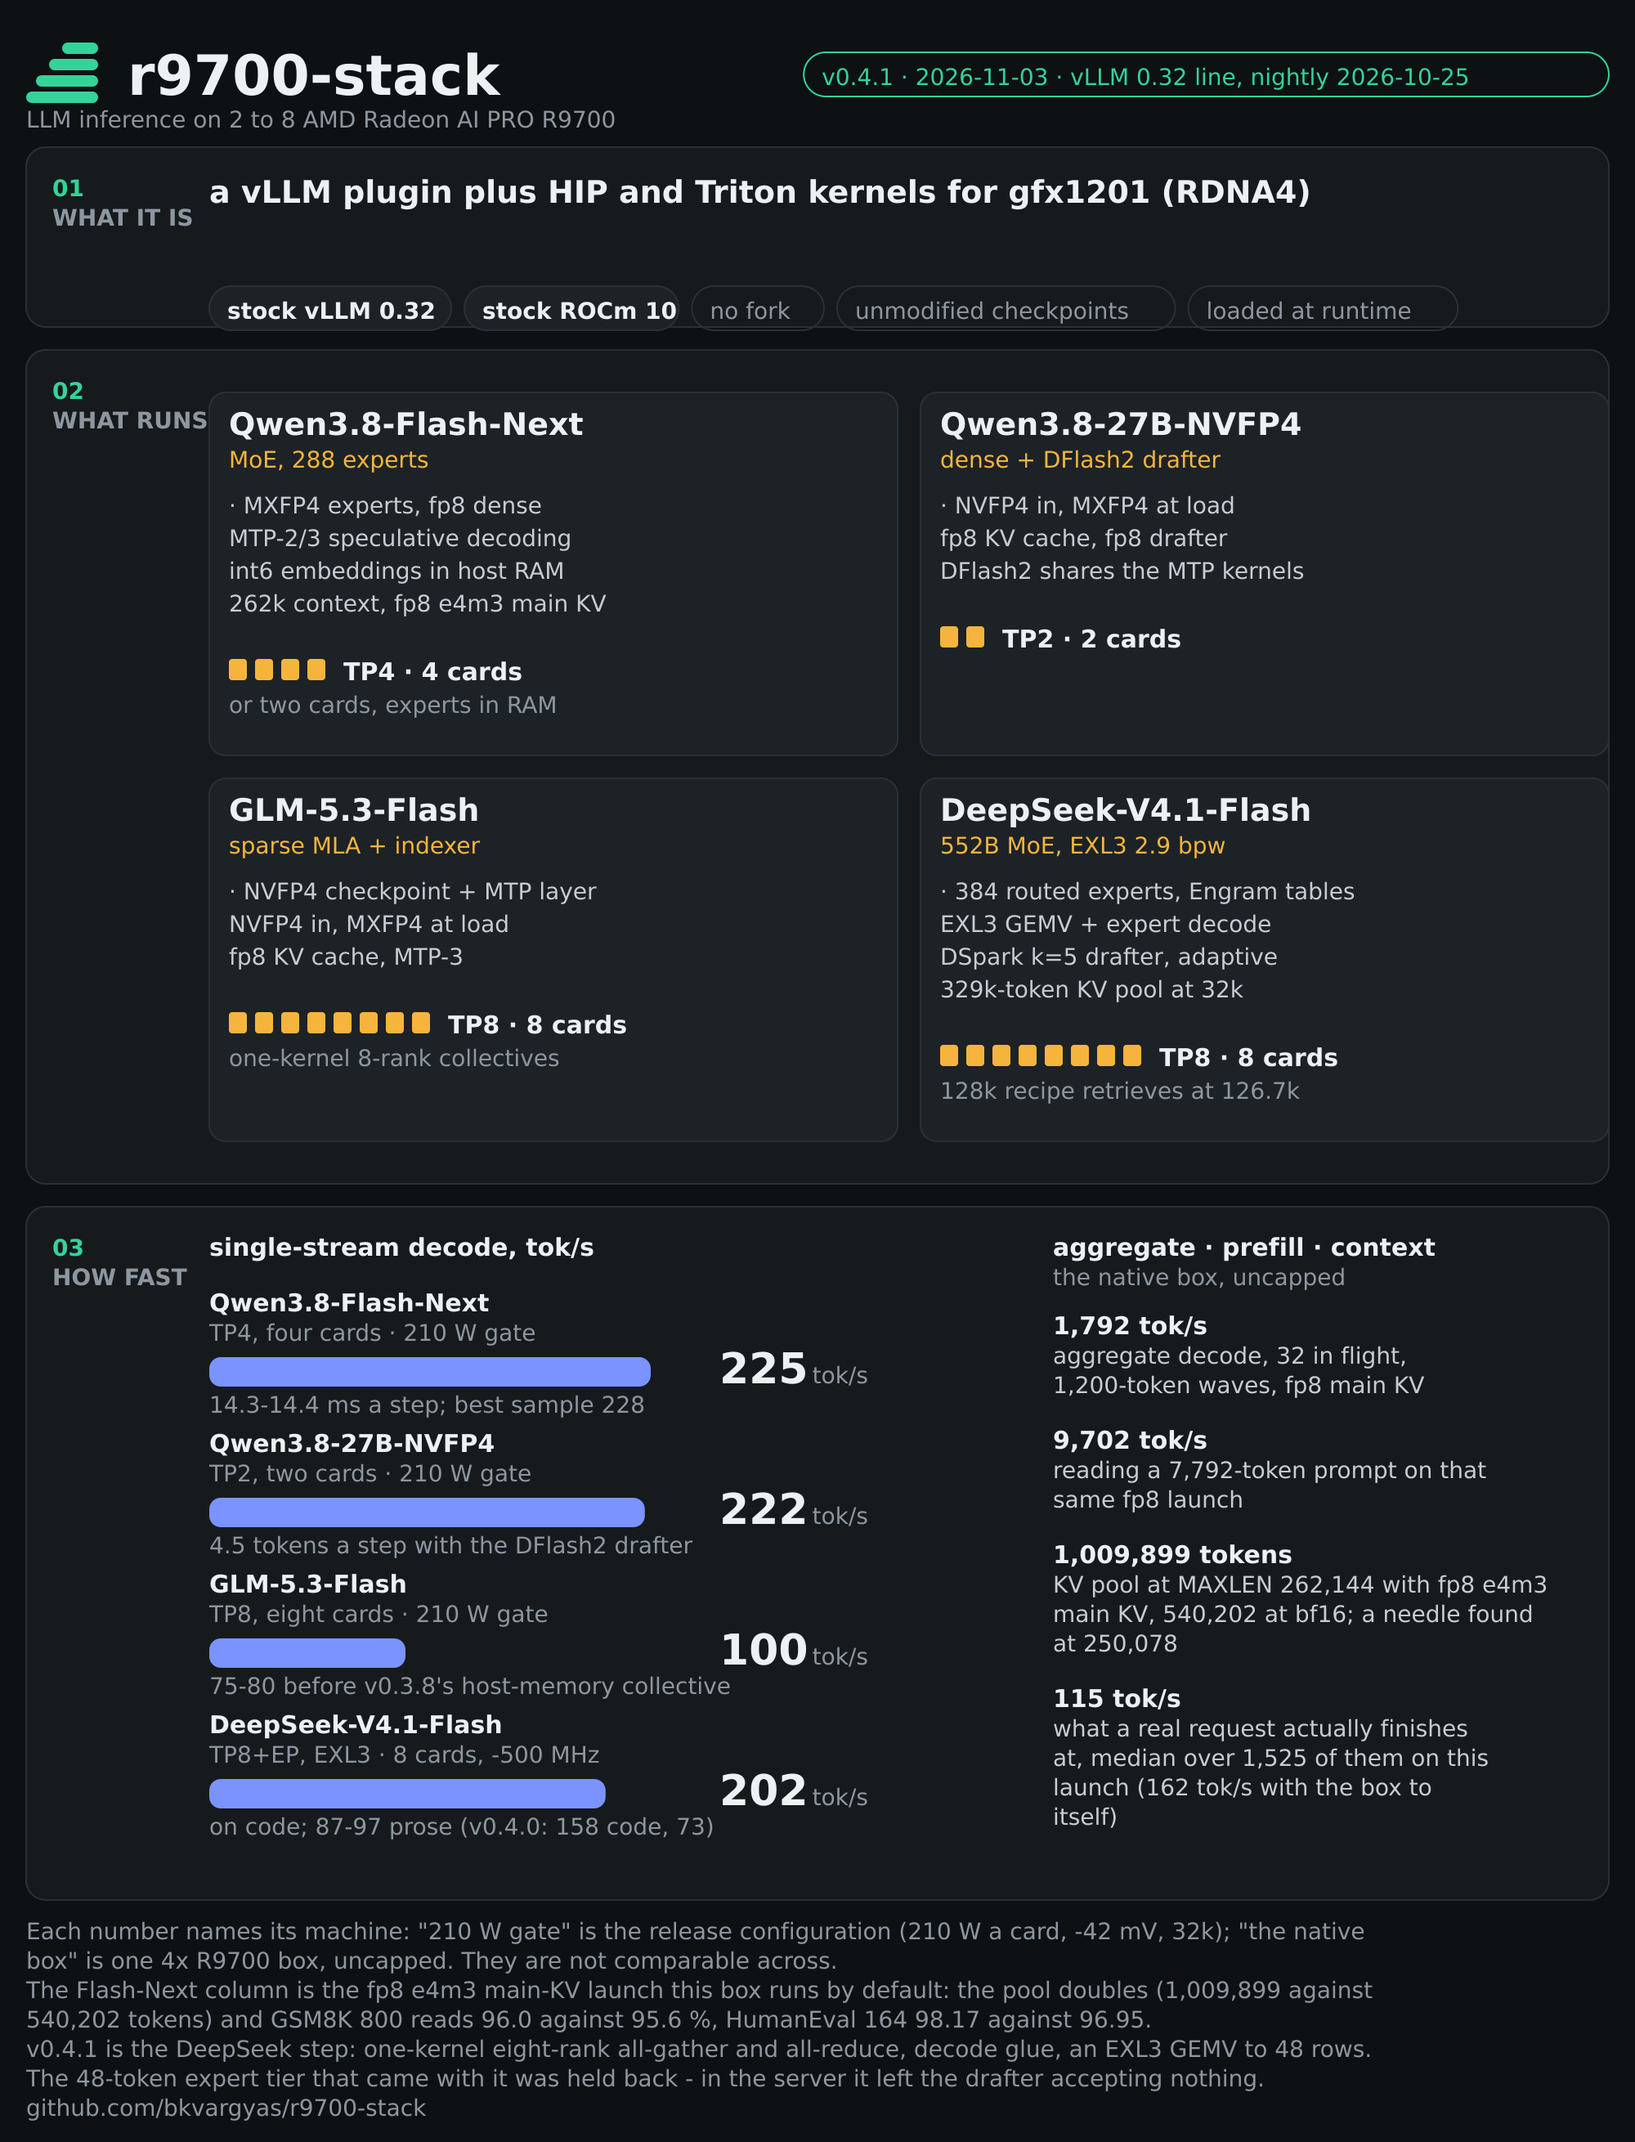
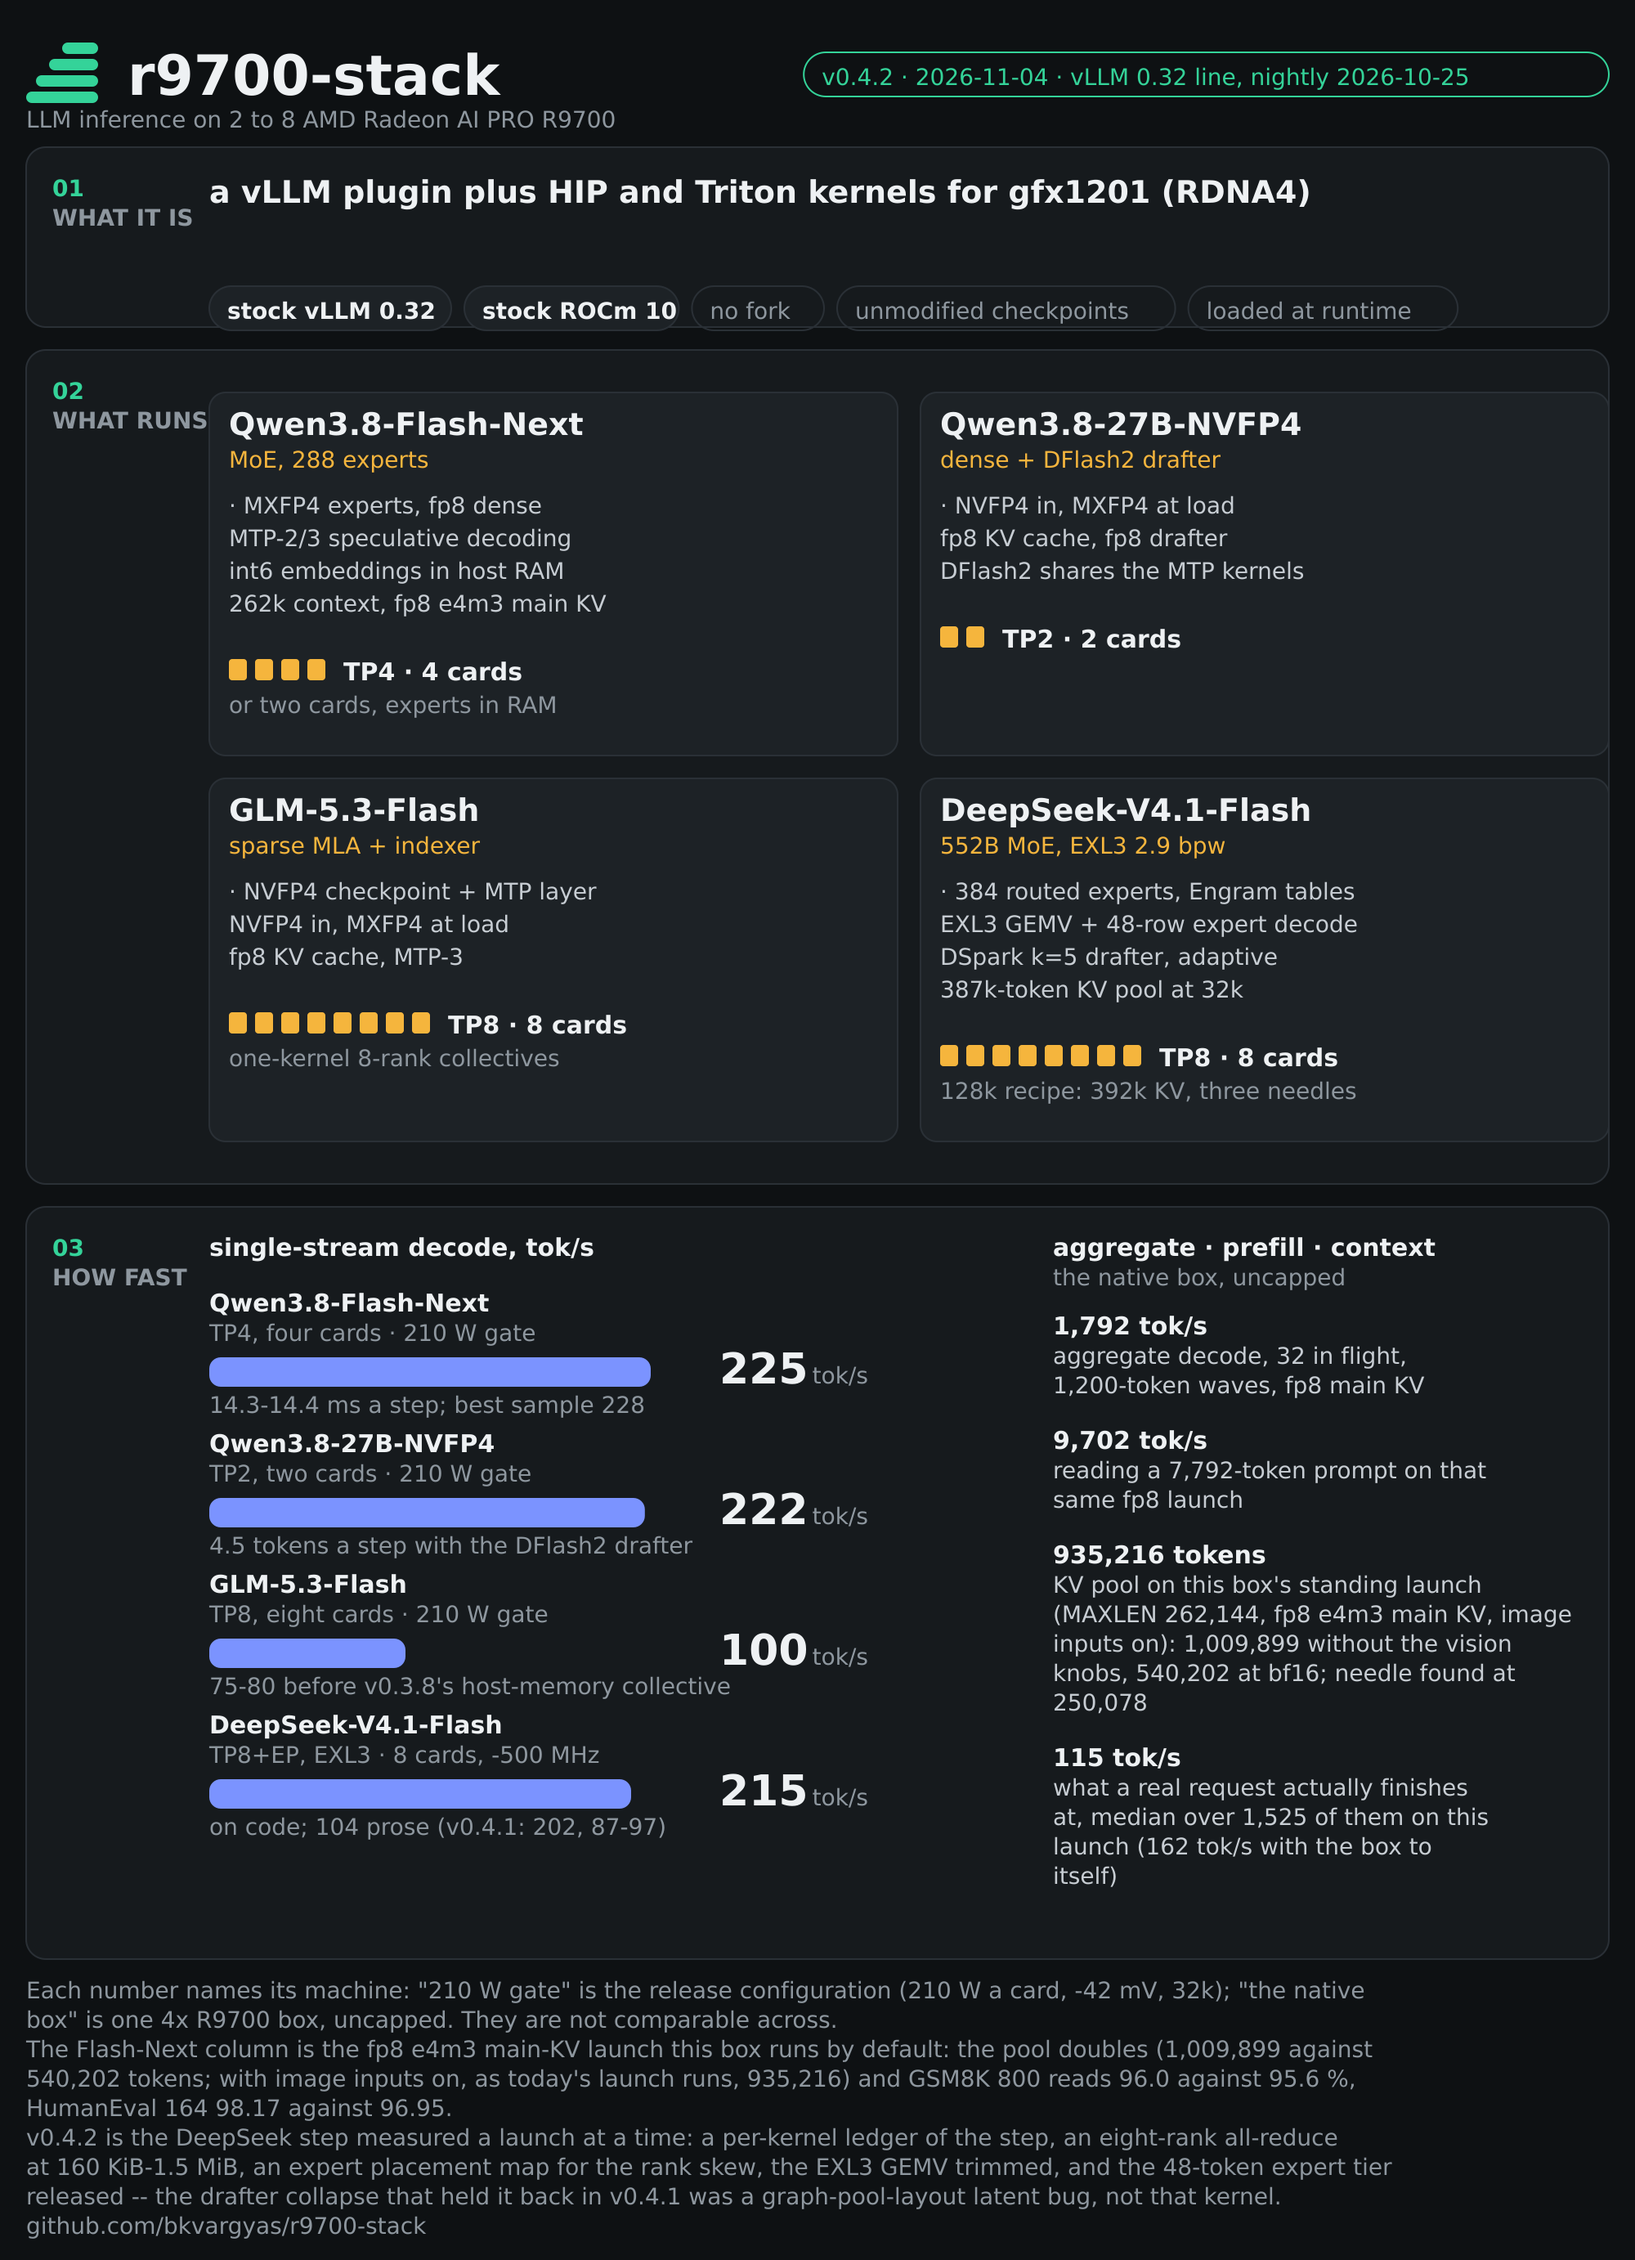
README and the one-page release figure, brought up to what the box actually runs
The figure is data (docs/summary-page.py), so the merge moved more of it than the README's own tables:

* VERSION v0.4.1 -> v0.4.2 (2026-11-04), and the footer's release line rewritten: v0.4.2 is the DeepSeek step
  measured a launch at a time -- the per-kernel ledger of the step, the eight-rank hub all-reduce at 160 KiB-1.5
  MiB, the expert placement map for the rank skew, the EXL3 GEMV trimmed, and the 48-token expert tier released:
  the drafter collapse that held it back in v0.4.1 was a graph-pool-layout latent bug, not that kernel.
* DeepSeek bar 202 -> 215 code (104 prose), the number README's speed row carries -- the release note's 214.5 is
  the same measurement one decimal earlier, and the figure and the table have to agree because
  tests/test_readme.py checks that every number on the page appears in the README.
* The card's KV line 329k -> 387k at 32k, with the 128k recipe (392k, three needles): v0.4.2 package E moved the
  KVMEM default.
* The native box's KV fact 1,009,899 -> **935,216 tokens** (1,188 blocks of 832), which is what today's standing
  launch reports: the fp8 arm without the image-input knobs was 1,009,899 / 1,242 blocks, bf16 540,202. README's
  "four cards, the numbers worth knowing" row said the older arm as though it were today; it now names the launch
  the box is on and keeps the two other arms beside it.

README text:
* the hero alt/name and the PNG stamp follow the figure (its canvas grew to 2000 x 2764 because the facts column
[…]

diff --git a/docs/summary-page.py b/docs/summary-page.py
@@ -38,7 +38,7 @@ W, PAD = 1000, 16
 CHAR = 0.60                                              # em per glyph, as in docs/monitor-cards.py
 HEAD, BODY, SMALL = 19, 15, 14                           # SMALL is the floor: 14 px at the column's width
 
-VERSION, RELEASED, LINE_OF = "v0.4.1", "2026-11-03", "vLLM 0.32 line, nightly 2026-10-25"
+VERSION, RELEASED, LINE_OF = "v0.4.2", "2026-11-04", "vLLM 0.32 line, nightly 2026-10-25"
 TAGLINE = "LLM inference on 2 to 8 AMD Radeon AI PRO R9700"
 WHAT = "a vLLM plugin plus HIP and Triton kernels for gfx1201 (RDNA4)"
 BADGES = [("stock vLLM 0.32", 1), ("stock ROCm 10", 1), ("no fork", 0),
@@ -63,10 +63,10 @@ MODELS = [
      "one-kernel 8-rank collectives"),
     ("DeepSeek-V4.1-Flash", "552B MoE, EXL3 2.9 bpw", [
         "384 routed experts, Engram tables",
-        "EXL3 GEMV + expert decode",
+        "EXL3 GEMV + 48-row expert decode",
         "DSpark k=5 drafter, adaptive",
-        "329k-token KV pool at 32k"], 8,
-     "128k recipe retrieves at 126.7k"),
+        "387k-token KV pool at 32k"], 8,
+     "128k recipe: 392k KV, three needles"),
 ]
 
 # single-stream decode. Every row names its gate: the 210 W figures and the uncapped ones come from
@@ -78,7 +78,7 @@ BARS = [
     ("Qwen3.8-Flash-Next", "TP4, four cards", 225, "14.3-14.4 ms a step; best sample 228", GATE),
     ("Qwen3.8-27B-NVFP4", "TP2, two cards", 222, "4.5 tokens a step with the DFlash2 drafter", GATE),
     ("GLM-5.3-Flash", "TP8, eight cards", 100, "75-80 before v0.3.8's host-memory collective", GATE),
-    ("DeepSeek-V4.1-Flash", "TP8+EP, EXL3", 202, "on code; 87-97 prose (v0.4.0: 158 code, 73)", DSGATE),
+    ("DeepSeek-V4.1-Flash", "TP8+EP, EXL3", 215, "on code; 104 prose (v0.4.1: 202, 87-97)", DSGATE),
 ]
 
 # the column beside the bars: what the same four cards do in aggregate, and what the context costs.
@@ -86,7 +86,8 @@ BARS = [
 FACTS = [
     ("1,792 tok/s", "aggregate decode, 32 in flight, 1,200-token waves, fp8 main KV"),
     ("9,702 tok/s", "reading a 7,792-token prompt on that same fp8 launch"),
-    ("1,009,899 tokens", "KV pool at MAXLEN 262,144 with fp8 e4m3 main KV, 540,202 at bf16; a needle found at 250,078"),
+    ("935,216 tokens", "KV pool on this box's standing launch (MAXLEN 262,144, fp8 e4m3 main KV, image inputs "
+     "on): 1,009,899 without the vision knobs, 540,202 at bf16; needle found at 250,078"),
     ("115 tok/s", "what a real request actually finishes at, median over 1,525 of them on this launch "
      "(162 tok/s with the box to itself)"),
 ]
@@ -94,10 +95,12 @@ FACTS = [
 FOOT = ["Each number names its machine: \"210 W gate\" is the release configuration (210 W a card, -42 mV, 32k); "
         "\"the native box\" is one 4x R9700 box, uncapped. They are not comparable across.",
         "The Flash-Next column is the fp8 e4m3 main-KV launch this box runs by default: the pool doubles (1,009,899 "
-        "against 540,202 tokens) and GSM8K 800 reads 96.0 against 95.6 %, HumanEval 164 98.17 against 96.95.",
-        "v0.4.1 is the DeepSeek step: one-kernel eight-rank all-gather and all-reduce, decode glue, an EXL3 GEMV to "
-        "48 rows. The 48-token expert tier that came with it was held back - in the server it left the drafter "
-        "accepting nothing.",
+        "against 540,202 tokens; with image inputs on, as today's launch runs, 935,216) and GSM8K 800 reads 96.0 "
+        "against 95.6 %, HumanEval 164 98.17 against 96.95.",
+        "v0.4.2 is the DeepSeek step measured a launch at a time: a per-kernel ledger of the step, an eight-rank "
+        "all-reduce at 160 KiB-1.5 MiB, an expert placement map for the rank skew, the EXL3 GEMV trimmed, and the "
+        "48-token expert tier released -- the drafter collapse that held it back in v0.4.1 was a graph-pool-layout "
+        "latent bug, not that kernel.",
         "github.com/bkvargyas/r9700-stack"]
 
 warn, out = [], []

diff --git a/README.md b/README.md
@@ -33,14 +33,14 @@ underneath it.
 ![r9700-stack v0.4.2: what runs on it, the weight formats, the speed](docs/r9700-stack-v0.4.2.png)
 
 <p align="center">
-  <a href="docs/r9700-stack-page.png"><img src="docs/r9700-stack-page.svg" alt="r9700-stack v0.4.1: what runs on it, the weight formats, the speed"></a>
+  <a href="docs/r9700-stack-page.png"><img src="docs/r9700-stack-page.svg" alt="r9700-stack v0.4.2: what runs on it, the weight formats, the speed"></a>
   <br><sub>The release on one page: what the stack is, the four model configurations it runs, and how fast they run --
 drawn by <code>docs/summary-page.py</code> from the same numbers the tables below carry, so a figure nobody can
 re-draw cannot drift from them. Its canvas is 1000 px against github.com's ~980 px column, so the smallest type on
 it lands at 14 px; the tag's own hand-drawn <code>docs/r9700-stack-v0.4.2.svg</code> carries the same claims at
 11 px on a 1200-unit canvas, which measures out at 9.0 px in that column -- clicked-to-read, so the generated page
 is what this README carries. The picture links to <code>docs/r9700-stack-page.png</code>, the same drawing at
-2000 × 2620, for zooming. Rows tagged "210 W gate" are the release configuration, "the native box" is one uncapped
+2000 × 2764, for zooming. Rows tagged "210 W gate" are the release configuration, "the native box" is one uncapped
 4x R9700 box, and "-500 MHz" is upstream's eight-card gate; the three are not comparable across.</sub>
 </p>
 
@@ -67,7 +67,7 @@ Qwen3.8-Flash-Next (MoE, MXFP4 experts plus fp8 dense) on four Radeon AI PRO R97
 | **decoding, one stream** | **225 tok/s** (best sample 228) | 14.3-14.4 ms a step; release configuration, 210 W cap, 32k |
 | **decoding, 32 streams** | **1,823 tok/s** aggregate (best sample 1,836.3) | 1,200-token waves, `bench/probe32.sh`; the native box, uncapped. The fp8 main-KV launch this box now defaults to reads **1,792** (1,789 / 1,796) at the same protocol |
 | **reading a prompt** | **9,633 tok/s** | 7,789-token prompt, the native box uncapped (7,141 at the 210 W gate); **9,702** on the fp8 launch, 7,792 tokens |
-| **context** | **262,144 tokens**, needle found at 250,078 | the checkpoint's own ceiling, running on this box today; KV pool 1,009,899 tokens with the fp8 main KV the launcher now defaults to, 540,202 at bf16 |
+| **context** | **262,144 tokens**, needle found at 250,078 | the checkpoint's own ceiling, running on this box today; KV pool **935,216 tokens** (1,188 blocks of 832) on the standing launch — fp8 e4m3 main KV with image inputs on; 1,009,899 without the vision knobs, 540,202 at bf16 |
 | **decoding, in real work** (not a benchmark) | **162 tok/s** with the box to yourself, **115 tok/s** as a request actually finishes | 1,568 real requests off the fp8 launch's journal over 10.25 h, prompts p50 52,083; the benchmark rows above describe a machine nobody sits on |
 
 <sub>Two different machines, so the rows are not comparable with each other; each one names its own. The last row is
@@ -584,7 +584,8 @@ Flash-Next configuration needs about 120 GB of host RAM; eight-card runs on a 12
   <br><sub>The Monitor page on the launch that runs today: engine state and the KV pool, generation and speculation,
   every card's busy% and VRAM, the engine's timings over the poll window, and the request list carrying each
   request's own wall clock, token counts and prefill. The frame is 1688 x 1953, shown as wide as the page column;
-  click it for the pixels.</sub>
+  click it for the pixels. Captured before 2026-11-05, so it still shows the standalone PCIe panel that has since
+  been removed - the link is one word on each card now (`Gen5 ×16`), described below.</sub>
 </p>
 
 <p align="center">
@@ -618,17 +619,25 @@ which one it is:
   `pip install -e serve/plugin` and a `VLLM_PLUGINS` allowlist generated by `serve/webui-plugins.py`, not written
   by hand.
 
+Neither is the default: a launch with no `WEBUI=` starts no page at all. The standing launch on this box is the
+**merged** one, because the per-request queue / prefill / decode seconds are the numbers the request rows are built
+from; the sidecar gets started by hand for the two jobs it is better at - answering after the engine has died, and
+proxying when the request bodies themselves are the thing under study. (`tests/test_webui.py` had made a
+hand-started sidecar on `:8099` a requirement of the box; since 2026-11-05 it checks the engine's own port is bound
+the way the machine-local file says, and any sidecar that happens to be running - running none is the shape.)
+
 The About page hands out client config that is right where you paste it: the base URL is the address that answered
 the page (`/v1` for the OpenAI SDK and LiteLLM, the root for curl), `openai/<served name>` rather than the
 checkpoint path, the API key never printed, and the reasoning parser accounted for (`--reasoning-parser qwen3`
 makes reasoning tokens count against `max_tokens`, so a small budget returns `content = None`).
 
 Both pages' headers name the build that is answering: the plugin's version, and the branch, commit and dirtiness of
-the tree that plugin was loaded from - on the launch running today, `vLLM 0.32.0 · plugin 0.4.0 · 953a3901`, with a
+the tree that plugin was loaded from - on the launch running today, `vLLM 0.32.0 · plugin 0.4.2 · 4f4d1b2a`, with a
 `*` on the commit when the tree has uncommitted edits, and the same facts as a row in About. It is the build that
-**answered**, not the build this checkout holds: the tree has since moved to 0.4.1, and the header will say so when
-that serve is next restarted. "Is the live serve the new one?" used to cost an ssh and a look at the launch log; now
-it is a glance, and the string survives into the screenshot someone sends.
+**answered**, not the build this checkout holds: that serve came up at `4f4d1b2a` while the tree had already moved
+two commits past it, and the header went on naming the older one - which is the whole point, and why the About page
+labels the same facts as three sources that are allowed to disagree. "Is the live serve the new one?" used to cost
+an ssh and a look at the launch log; now it is a glance, and the string survives into the screenshot someone sends.
 
 The headline rates default to a **15 minute mean**, not the poll, and the window is selectable (this poll / 1 min /
 15 min / 1 h). That is not decoration - on a launch with six streams and 90 k-token prompts a single poll is a coin
